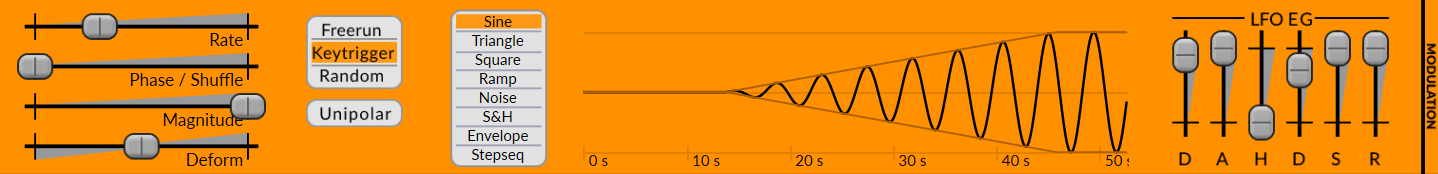
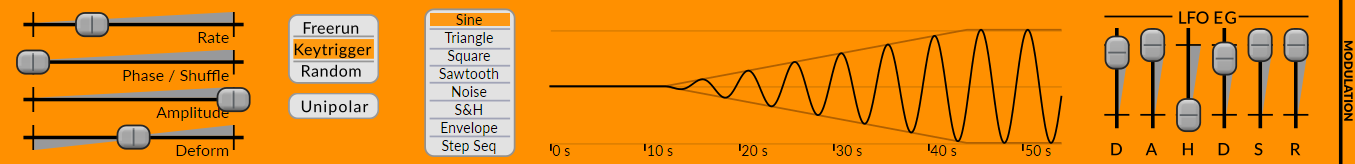
Some more small manual tweak and fixes

diff --git a/manual/Surge.md b/manual/Surge.md
@@ -627,7 +627,7 @@ Each channel has the following controls:
 
 <br/>
 
-### Other settings
+### Other sound generation parameters
 
 **Pitch & Octave** – Controls the pitch for the entire scene. Affects
 the filter key-tracking and the keytrack modulation source as well. The
@@ -783,7 +783,7 @@ will automatically be set to a shape that tries to emulate analog behavior.
 
 <br/>
 
-### Other parameters
+### Other sound shaping parameters
 
 **Keytrack root note** – Sets the root key of the filter keytracking and the
 keytrack modulation source. At the root key, the keytrack modulation
@@ -935,7 +935,7 @@ Note: In the LFO editor, when right-clicking parameters that can be tempo-synced
 its modulated value will not change once the LFO is triggered (for instance, it's not possible to shift the LFO's phase while a note is pressed.) Only starting phase is
 taken into account.
 
-**Magnitude** – Controls the magnitude of the LFO. This is the parameter
+**Amplitude** – Controls the amplitude of the LFO. This is the parameter
 should be used if you want to control the depth of an LFO with a
 controller. (like controlling vibrato depth with the modulation wheel)
 
@@ -1607,17 +1607,17 @@ absolute frequency.
 
 ### S&H-Noise
 
-  - S&H is an abbreviation for 'Sample and Hold'.
-  - The S&H-Noise oscillator algorithm works like a pulse oscillator,
-    but instead of always switching between +1 and -1 the levels used
-    are determined stochastically.
-  - The correlation parameter determine how new levels are calculated. A
-    setting of 0% will have no memory and each new level will
-    effectively be a random number (white noise). A lower setting will
-    favor new values that is closer to the previous level and will
-    provide a noise with a darker spectra. Higher values will favor
-    values as far away from the previous one as possible, with 100%
-    resulting in a harmonic pulse-wave.
+S&H is an abbreviation for 'Sample and Hold'. The S&H-Noise oscillator algorithm works like a pulse oscillator,
+but instead of always switching between +1 and -1, the levels used
+are determined stochastically.
+
+The correlation parameter determine how new levels are calculated. A
+setting of 0% will have no memory and each new level will
+effectively be a random number (white noise). A lower setting will
+favor new values that is closer to the previous level and will
+provide a noise with a darker spectra. Higher values will favor
+values as far away from the previous one as possible, with 100%
+resulting in a harmonic pulse-wave.
 
 |--- |--- |--- |
 |Correlation|Noise correlation. 0% = white noise, 100% = pulse|-100 .. 100 %|
